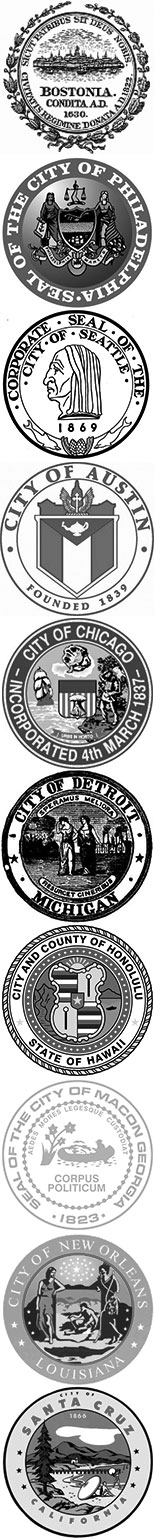
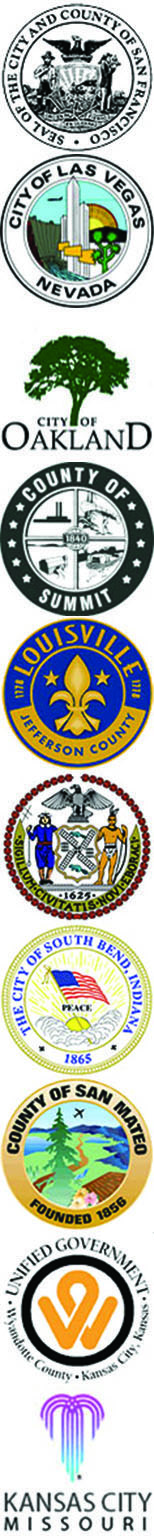
add city seals

diff --git a/css/screen.css b/css/screen.css
@@ -955,61 +955,45 @@ padding-left: 20px;
   margin: 20px 20px 0 0;
 }
 
-.bostonseal,
-.phillyseal,
-.seattleseal,
-.austinseal, 
-.chiseal, 
-.detroitseal,
-.hnlseal,
-.maconseal,
-.nolaseal,
-.scseal {
-  background-image: url('../img/city_seals.jpg');
-  background-size: 59px;
-  float: right;
-  width: 59px;
-  height: 59px;
-}
 
-.bostonseal {
+.sf {
   background-position: 0 0;
 }
 
-.phillyseal {
-  background-position: 0 -59px;
+.lv {
+  background-position: 0 -100px;
 }
 
-.seattleseal {
-  background-position: 0 -118px;
+.ok {
+  background-position: 0 -200px;
 }
 
-.austinseal {
-  background-position: 0 -177px;
+.sc {
+  background-position: 0 -300px;
 }
 
-.chiseal {
-  background-position: 0 -236px;
+.lo {
+  background-position: 0 -400px;
 }
 
-.detroitseal {
-  background-position: 0 -295px;
+.nyc {
+  background-position: 0 -500px;
 }
 
-.hnlseal {
-  background-position: 0 -354px;
+.sb {
+  background-position: 0 -600px;
 }
 
-.maconseal {
-  background-position: 0 -413px;
+.smc {
+  background-position: 0 -700px;
 }
 
-.nolaseal {
-  background-position: 0 -472px;
+.kcks {
+  background-position: 0 -800px;
 }
 
-.scseal {
-  background-position: 0 -531px;
+.kcmo{
+  background-position: 0 -900px;
 }
 .mapscroll{ 
   height:800px;
